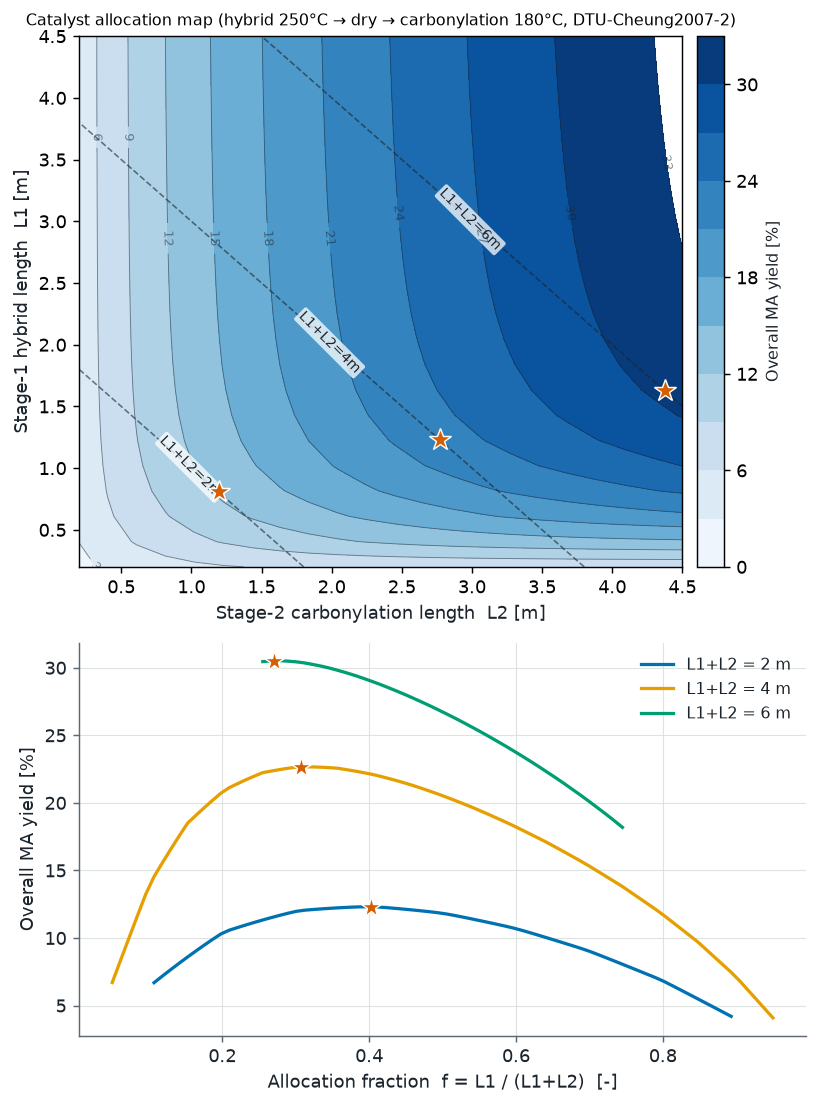
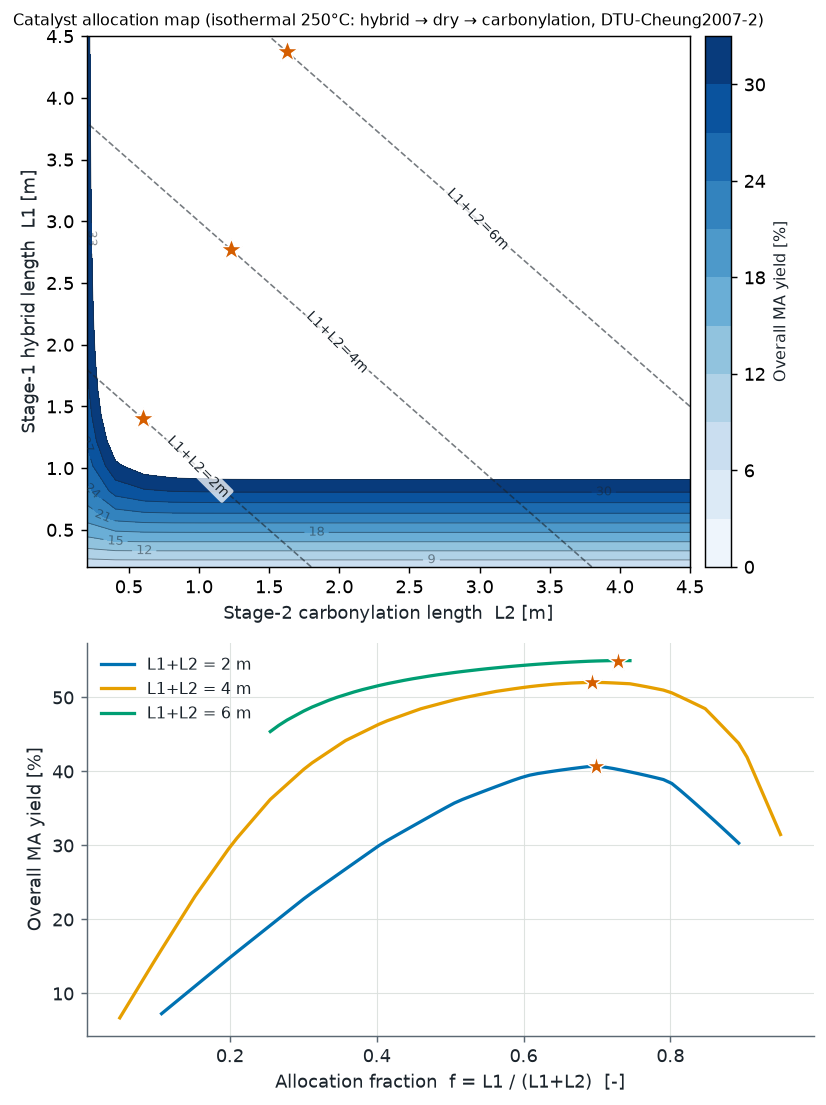
配分最適化図を等温250℃で再評価
段2カルボニル化を段1と同じ250℃に変更（従来 180℃）。
250℃は検証域(150–190℃)外の外挿でMAは過大評価側、と明記。

結果(180℃版と反転):
・カルボニル化が~12倍速く、少ないL2で飽和 → 最適配分は段1(ハイブリッド)を厚く
  L1:L2 ≈ 70:30（180℃では ≈30:70 だった）。
・収率はL1律速（等高線がほぼ水平）、到達MA収率は総長6mで ~55%（180℃は~30%）。
・配分比ピークは f=L1/総長 ≈ 0.7 に移動。

diff --git a/examples/fig_tandem_allocation.py b/examples/fig_tandem_allocation.py
@@ -1,8 +1,11 @@
 """触媒配分の最適化: 段1(ハイブリッド)長さ L1 × 段2(カルボニル化)長さ L2 の 2 次元スイープ。
 
 fig_tandem_stages.py の段階タンデム（段1 MeOH/DMEハイブリッド@250℃ → 水/メタノール除去・
-乾燥・新鮮CO添加 → 段2 乾燥DMEカルボニル化@180℃, DTU-Cheung2007-2）で、
+乾燥・新鮮CO添加 → 段2 乾燥DMEカルボニル化@250℃, DTU-Cheung2007-2）で、
 段1・段2 の触媒量を独立に振り、総合 MA 収率の等高線を描く。
+⚠ 両段を同一 250℃ とした等温評価。250℃ はカルボニル化の検証域(150–190℃)外の
+   外挿（Ea=69.6 で 438K の ~22 倍）なので、段2 は速く MA は過大評価側。
+   180℃版(検証域内)は fig_tandem_stages.py と同系だが、本図は等温比較用。
 
 読み取り:
   ・MA 収率は L1・L2 どちらを増やしても上昇（DME 生成量↑ / DME→MA 転化↑）だが逓減。
@@ -29,7 +32,7 @@ from reaction_rate.reactors import pfr, CatalystBed
 from reaction_rate import plots
 
 FTOT = 0.10
-T1, T2 = 523.15, 453.15                   # 段1 250℃, 段2 180℃
+T1, T2 = 523.15, 523.15                   # 両段 250℃（等温）。段2は検証域外の外挿
 P = 50.0
 RHO = 1200.0
 GEOM = Geometry(area=np.pi / 4 * 0.04**2, bulk_density=RHO, void_fraction=0.40)
@@ -83,7 +86,7 @@ def main():
     cb.set_label("Overall MA yield [%]", color=plots._INK, fontsize=9)
     ax1.set_xlabel("Stage-2 carbonylation length  L2 [m]", color=plots._INK)
     ax1.set_ylabel("Stage-1 hybrid length  L1 [m]", color=plots._INK)
-    ax1.set_title(f"Catalyst allocation map (hybrid 250°C → dry → carbonylation 180°C, {CARB})",
+    ax1.set_title(f"Catalyst allocation map (isothermal 250°C: hybrid → dry → carbonylation, {CARB})",
                   fontsize=9)
 
     # 等総長の対角線と、その上の最適点（★）。ラベルは対角線中央に白背景で置く
